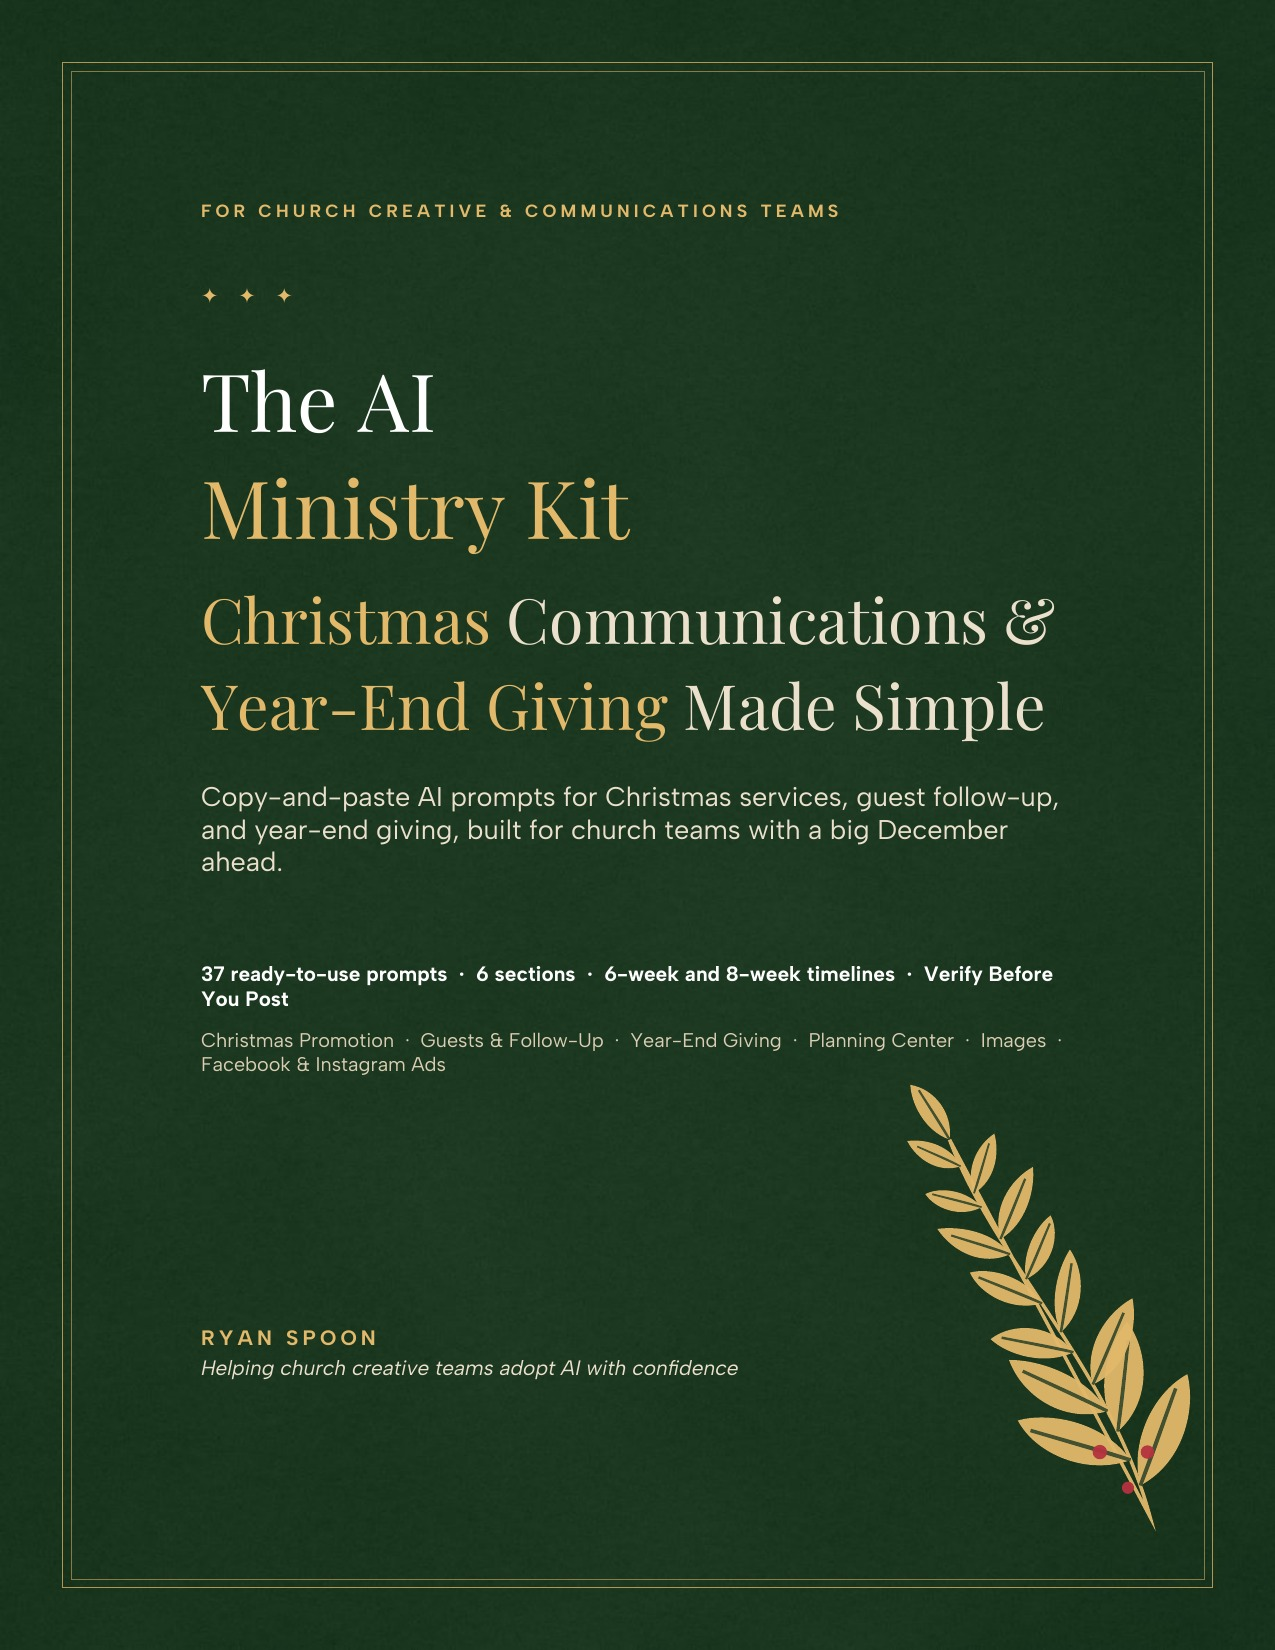
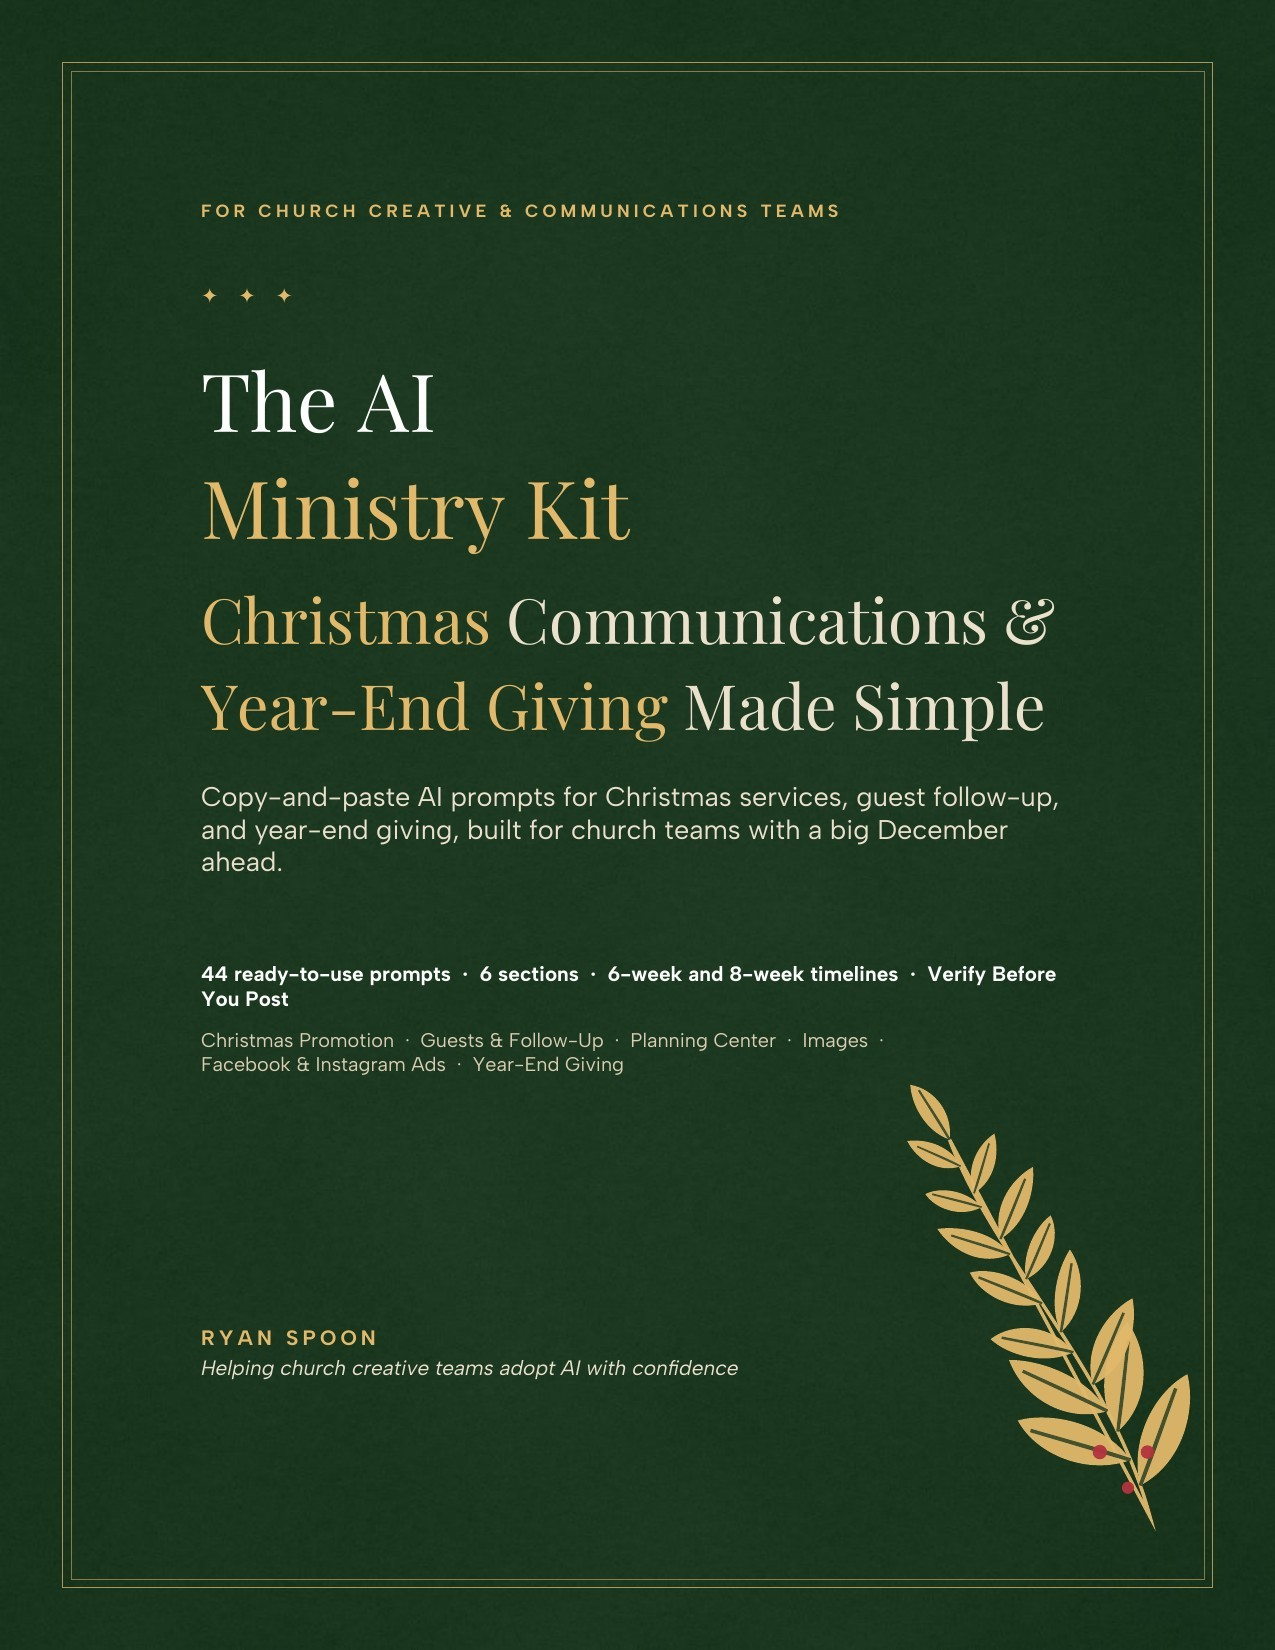
Update the Christmas kit to 44 prompts and the new cover. (#9)
Planning Center is 7 prompts and Year-End Giving is 12. The image line now mentions Christmas color palettes and image style recipes.

Changed region(s): [[0.4894, 0.5873, 0.7341, 0.6491], [0.1529, 0.5873, 0.4588, 0.6182], [0.7341, 0.5873, 0.8259, 0.6491]]

diff --git a/index.html b/index.html
@@ -329,7 +329,7 @@
       <img class="back" src="assets/cover-master-kit.jpg" alt="">
       <picture>
         <source srcset="assets/christmas-kit-cover.webp" type="image/webp">
-        <img class="front" src="assets/christmas-kit-cover.jpg" width="1275" height="1650" alt="Cover of The AI Ministry Kit: Christmas Communications and Year-End Giving Made Simple. Deep evergreen background, gold serif title, a lit Christmas tree, and a gold medallion reading 37 prompts.">
+        <img class="front" src="assets/christmas-kit-cover.jpg" width="1275" height="1650" alt="Cover of The AI Ministry Kit: Christmas Communications and Year-End Giving Made Simple. Deep evergreen background, gold serif title, a lit Christmas tree, and a gold medallion reading 44 prompts.">
       </picture>
       <span class="chip">New for Christmas 2026</span>
     </div>
@@ -338,7 +338,7 @@
 
 <div class="band">
   <div class="wrap">
-    <div><div class="num">37</div><span>Christmas &amp; year-end prompts</span></div>
+    <div><div class="num">44</div><span>Christmas &amp; year-end prompts</span></div>
     <div><div class="num">68</div><span>Master Kit prompts</span></div>
     <div><div class="num">8</div><span>Master Kit categories</span></div>
     <div><div class="num">PDF</div><span>Instant download</span></div>
@@ -356,19 +356,19 @@
     <article class="product" id="christmas-kit">
       <div class="cover"><picture>
         <source srcset="assets/christmas-kit-cover.webp" type="image/webp">
-        <img src="assets/christmas-kit-cover.jpg" width="1275" height="1650" alt="Cover of The AI Ministry Kit: Christmas Communications and Year-End Giving Made Simple. Deep evergreen background, gold serif title, a lit Christmas tree, and a gold medallion reading 37 prompts.">
+        <img src="assets/christmas-kit-cover.jpg" width="1275" height="1650" alt="Cover of The AI Ministry Kit: Christmas Communications and Year-End Giving Made Simple. Deep evergreen background, gold serif title, a lit Christmas tree, and a gold medallion reading 44 prompts.">
       </picture></div>
       <div>
         <span class="badge">New · Coming Nov 2</span>
         <h3>The AI Ministry Kit: Christmas Communications and Year-End Giving Made Simple</h3>
-        <div class="stat">37 prompts · 6 sections · 6-week and 8-week timelines · Verify Before You Post</div>
+        <div class="stat">44 prompts · 6 sections · 6-week and 8-week timelines · Verify Before You Post</div>
         <p class="desc">Christmas brings your biggest crowds, your busiest team and your year-end giving into the same few weeks. This kit gives you a head start on the words: the invite campaign, the service-times graphic, the promo video script, the guest welcome email, the January follow-up, the year-end giving emails and the volunteer messages.</p>
         <div class="inside">
           <div><b>Christmas Services Promotion <em>8 prompts</em></b><small>Invite campaign, service-times copy, 30/60-sec promo scripts, 7-day Christmas Eve countdown</small></div>
           <div><b>Guest Experience &amp; Follow-Up <em>5 prompts</em></b><small>Welcome email and text, 3-part January "come back" series, next-steps card</small></div>
-          <div><b>End-of-Year Giving <em>8 prompts</em></b><small>Year-in-review email and carousel, impact stories from your real numbers, Dec 26–31 reminders, thank-you notes</small></div>
-          <div><b>Planning Center for Christmas <em>4 prompts</em></b><small>Event and registration copy, volunteer plan for extra services, reminders</small></div>
-          <div><b>Simple Christmas Images <em>8 prompts</em></b><small>ChatGPT image prompts and Canva AI prompts for a matching social set</small></div>
+          <div><b>End-of-Year Giving <em>12 prompts</em></b><small>Year-in-review email and carousel, impact stories from your real numbers, Dec 26–31 reminders, thank-you notes</small></div>
+          <div><b>Planning Center for Christmas <em>7 prompts</em></b><small>Event and registration copy, volunteer plan for extra services, reminders</small></div>
+          <div><b>Simple Christmas Images <em>8 prompts</em></b><small>ChatGPT image prompts and Canva AI prompts for a matching social set, plus Christmas color palettes and image style recipes</small></div>
           <div><b>Facebook &amp; Instagram Ads <em>4 prompts</em></b><small>Christmas service ad copy, year-end giving ads, reel script with captions, ad plan and results check</small></div>
           <div><b>Bonuses <em>4</em></b><small>6-week Christmas comms timeline, 8-week year-end giving timeline, Christmas Church Voice prompt, Verify checklist</small></div>
         </div>
